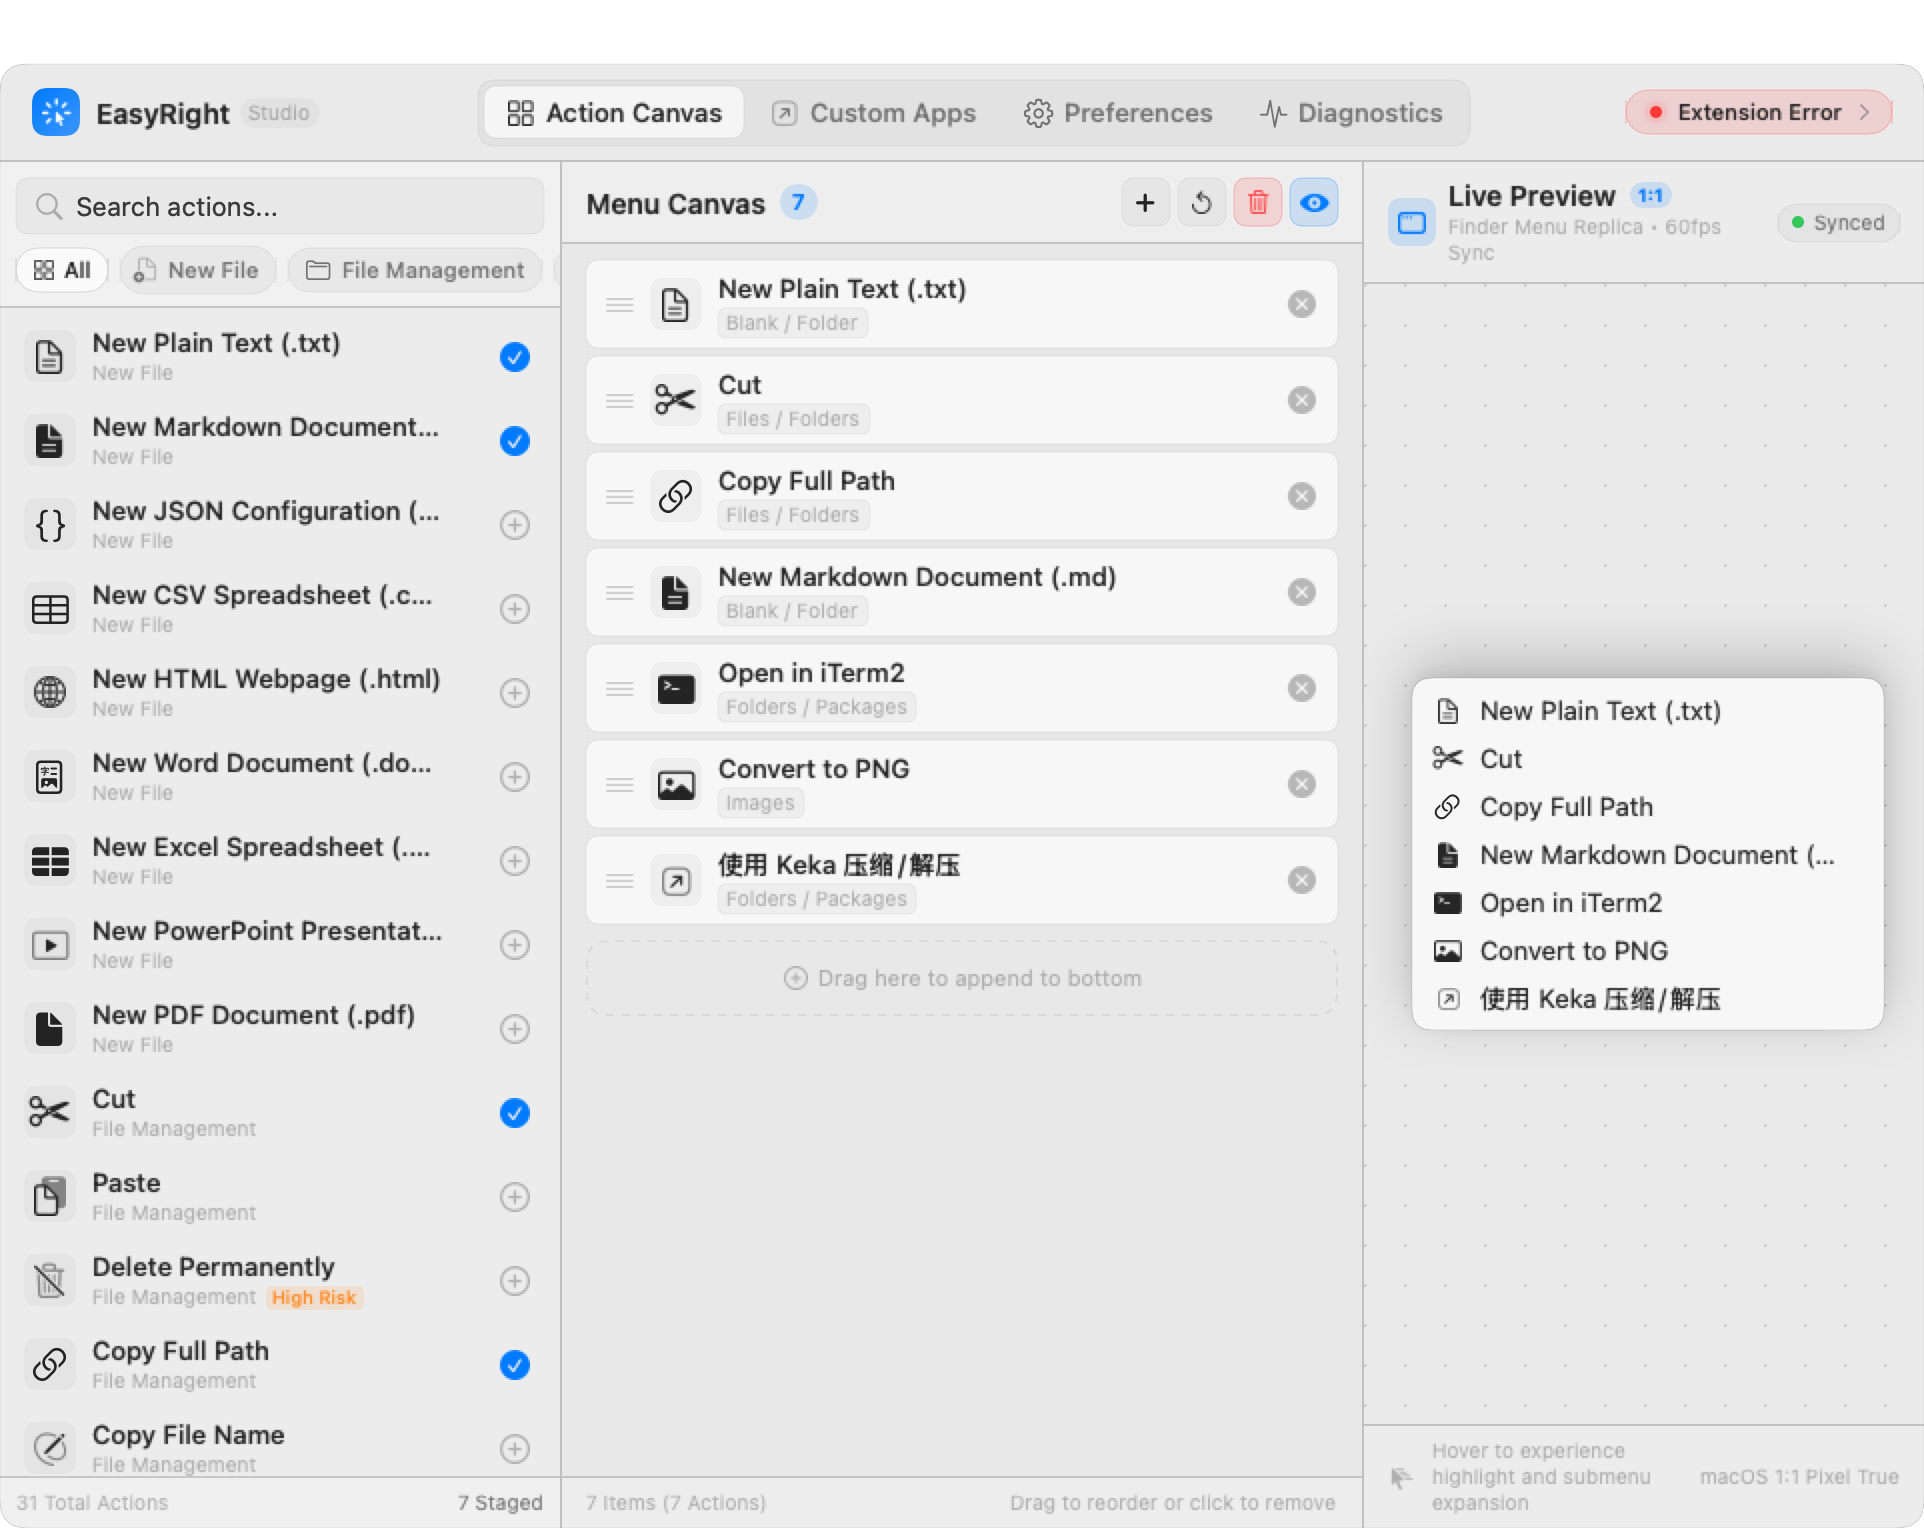
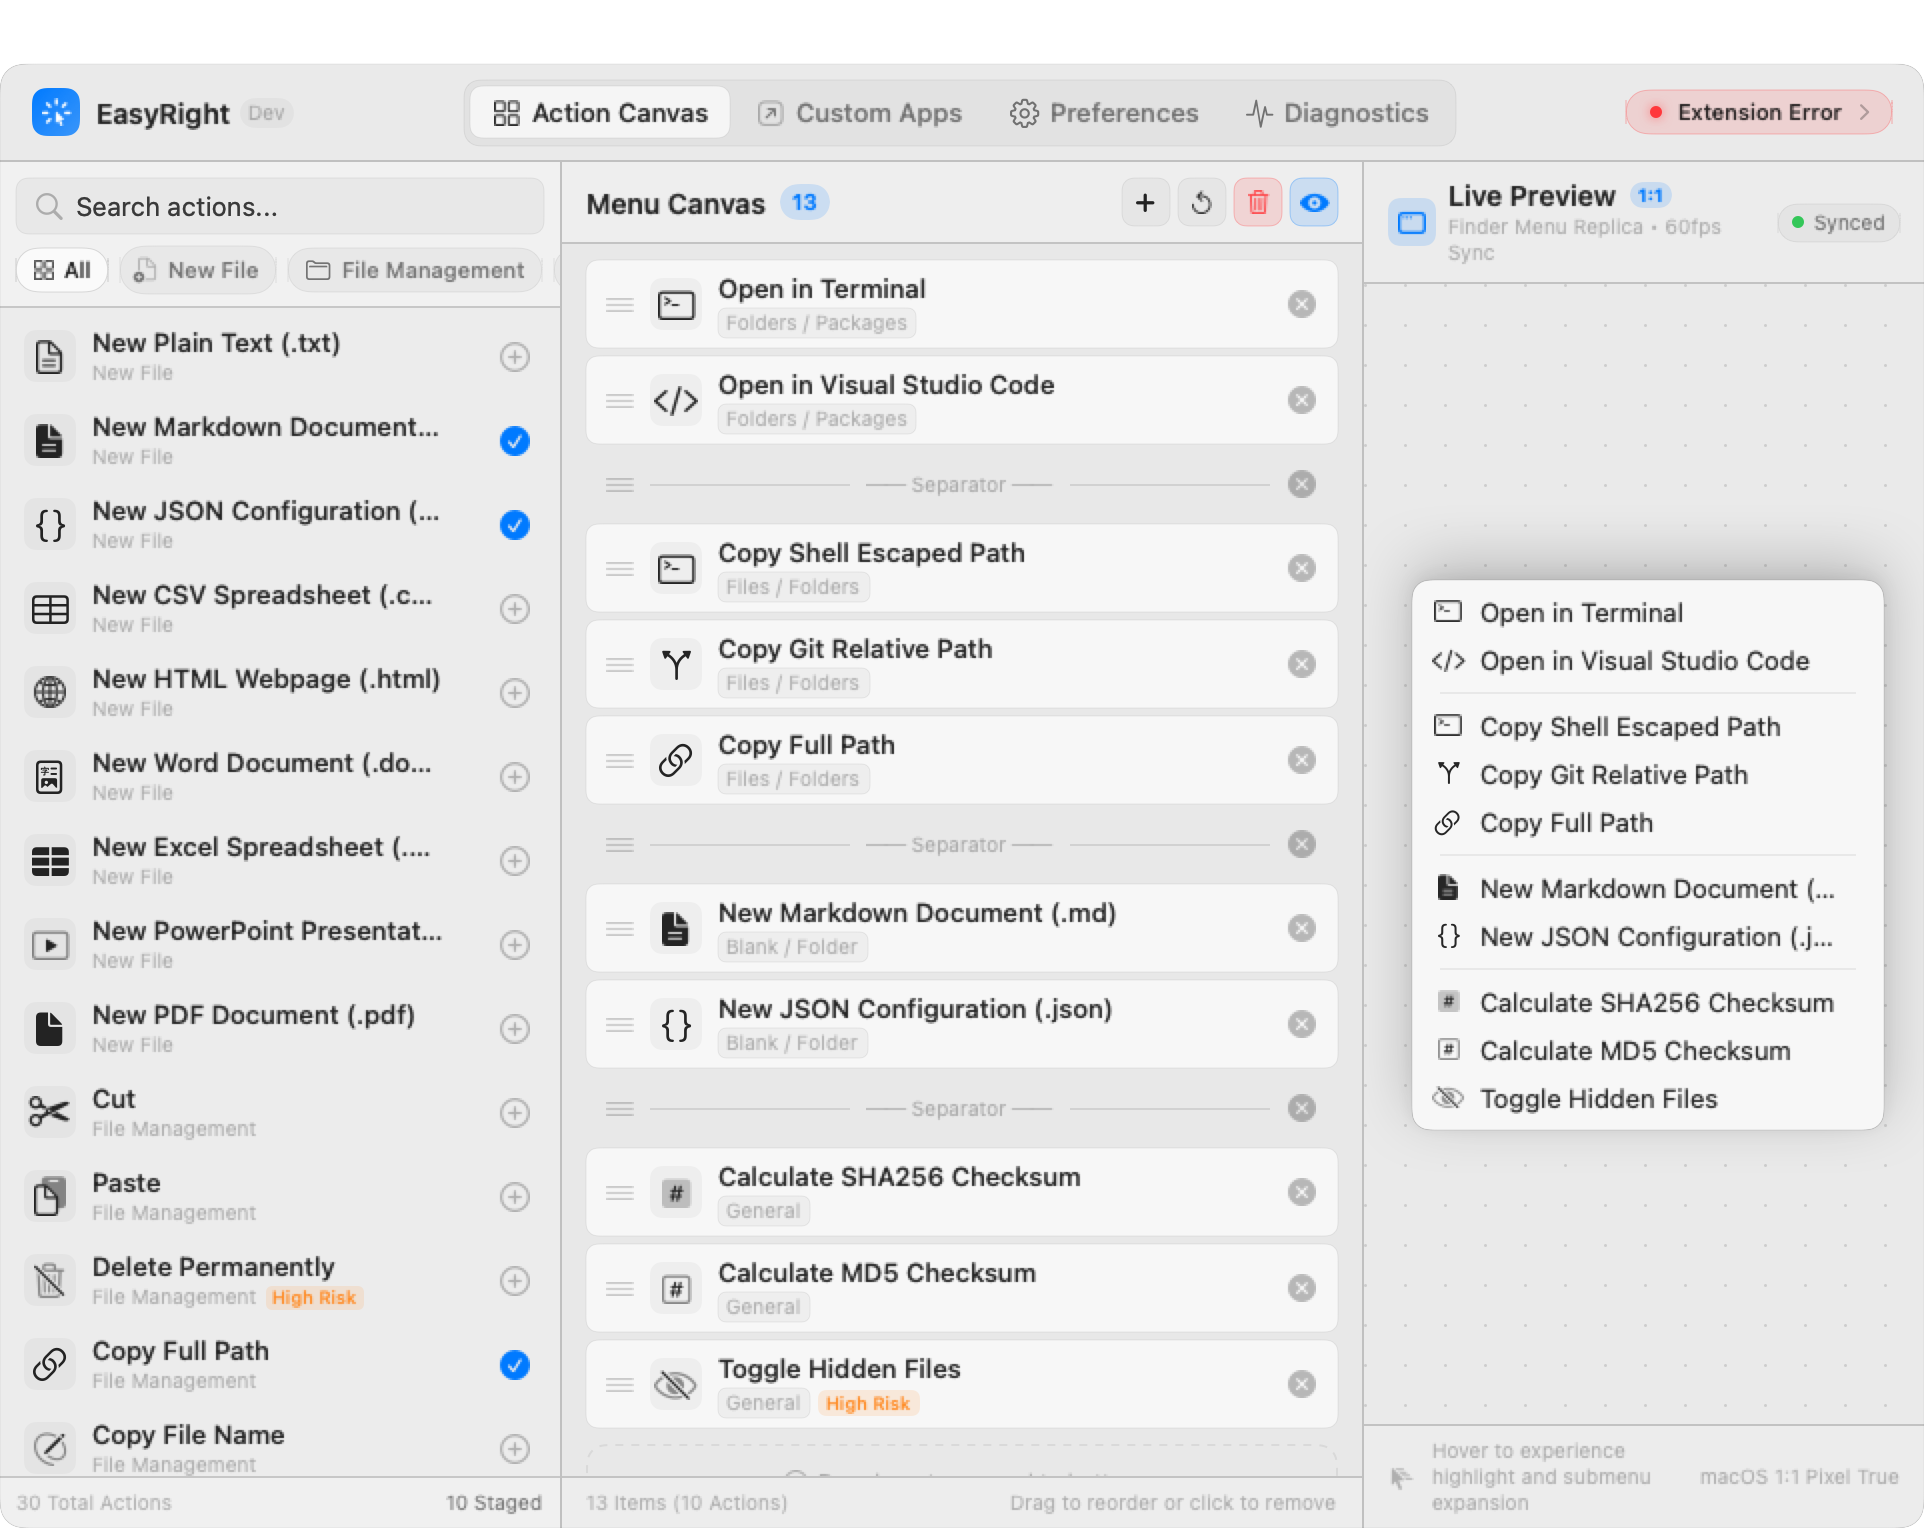
feat(studio): 将主标题尾缀动态关联预设状态 (Mini / Dev / Max | User)
- 标题栏尾缀胶囊由固定 Studio 改造为响应式 activePresetBadgeName
- 极简日常对应 Mini，开发者特供对应 Dev，全能全景对应 Max
- 画布手动增删动作或自定义排序时自动精准标记为 User
- 同步更新单元测试与英文界面最新截图

diff --git a/Tests/LanguageAndPresetTests.swift b/Tests/LanguageAndPresetTests.swift
@@ -64,21 +64,28 @@ struct LanguageAndPresetTests {
         // Apply Minimalist preset
         coordinator.applyPreset(.minimalist)
         assert(coordinator.canvasItems.count == StarterPreset.minimalist.canvasItems().count, "Canvas count should match Minimalist preset count")
+        assert(coordinator.activePresetBadgeName == "Mini", "Minimalist preset badge must be Mini")
         let loadedItemsMin = storage.getCanvasItems()
         assert(loadedItemsMin?.count == coordinator.canvasItems.count, "Storage items must match applied Minimalist preset")
 
         // Apply Developer preset
         coordinator.applyPreset(.developer)
         assert(coordinator.canvasItems.count == StarterPreset.developer.canvasItems().count, "Canvas count should match Developer preset count")
+        assert(coordinator.activePresetBadgeName == "Dev", "Developer preset badge must be Dev")
         let loadedItemsDev = storage.getCanvasItems()
         assert(loadedItemsDev?.count == coordinator.canvasItems.count, "Storage items must match applied Developer preset")
 
         // Apply Power User preset
         coordinator.applyPreset(.powerUser)
         assert(coordinator.canvasItems.count == StarterPreset.powerUser.canvasItems().count, "Canvas count should match Power User preset count")
+        assert(coordinator.activePresetBadgeName == "Max", "Power User preset badge must be Max")
         let loadedItemsPower = storage.getCanvasItems()
         assert(loadedItemsPower?.count == coordinator.canvasItems.count, "Storage items must match applied Power User preset")
-        print("     ✓ Coordinator applyPreset: PASSED")
+
+        // Modify canvas manually -> should become User
+        coordinator.addSeparator()
+        assert(coordinator.activePresetBadgeName == "User", "Modified canvas badge must be User")
+        print("     ✓ Coordinator applyPreset & badge (Mini/Dev/Max/User): PASSED")
 
         // MARK: 3. PresetSelectionSheet Instantiation
         print("  -> Testing PresetSelectionSheet UI instantiation...")

diff --git a/Sources/EasyRight/Views/AppMenuStateCoordinator.swift b/Sources/EasyRight/Views/AppMenuStateCoordinator.swift
@@ -285,6 +285,19 @@ public final class AppMenuStateCoordinator: ObservableObject {
         SystemReloader.postConfigChanged()
     }
 
+    /// 当前画布对应的预设微徽标名称 (Mini / Dev / Max / User)
+    public var activePresetBadgeName: String {
+        if canvasItems.matchesPresetStructure(StarterPreset.minimalist.canvasItems()) {
+            return StarterPreset.minimalist.badgeName
+        } else if canvasItems.matchesPresetStructure(StarterPreset.developer.canvasItems()) {
+            return StarterPreset.developer.badgeName
+        } else if canvasItems.matchesPresetStructure(StarterPreset.powerUser.canvasItems()) {
+            return StarterPreset.powerUser.badgeName
+        } else {
+            return "User"
+        }
+    }
+
     /// 清空画布中的所有菜单项
     public func clearAll() {
         canvasItems.removeAll()
@@ -437,5 +450,24 @@ public final class AppMenuStateCoordinator: ObservableObject {
         _ = storage.removeValue(forKey: SharedStorageManager.Keys.customAppActions)
         allActions = DefaultActionRegistry.allActions
         scheduleSave(immediate: true)
+    }
+}
+
+extension Array where Element == MenuCanvasItem {
+    public func matchesPresetStructure(_ presetItems: [MenuCanvasItem]) -> Bool {
+        guard count == presetItems.count else { return false }
+        for (a, b) in zip(self, presetItems) {
+            switch (a, b) {
+            case (.action(let id1), .action(let id2)):
+                if id1 != id2 { return false }
+            case (.separator, .separator):
+                continue
+            case (.submenu(_, let t1, let ids1), .submenu(_, let t2, let ids2)):
+                if t1 != t2 || ids1 != ids2 { return false }
+            default:
+                return false
+            }
+        }
+        return true
     }
 }

diff --git a/Sources/EasyRight/Views/MainWindowView.swift b/Sources/EasyRight/Views/MainWindowView.swift
@@ -201,7 +201,7 @@ public struct MainWindowView: View {
                             .font(DesignTokens.Typography.windowTitle)
                             .foregroundStyle(DesignTokens.Colors.primaryText)
 
-                        Text("Studio")
+                        Text(coordinator.activePresetBadgeName)
                             .font(DesignTokens.Typography.caption2)
                             .foregroundStyle(DesignTokens.Colors.tertiaryText)
                             .padding(.horizontal, 4)

diff --git a/Sources/EasyRight/Views/OnboardingView.swift b/Sources/EasyRight/Views/OnboardingView.swift
@@ -20,6 +20,15 @@ public enum StarterPreset: String, CaseIterable, Identifiable, Sendable {
 
     public var id: String { rawValue }
 
+    /// 预设徽标单单词名称 (Mini / Dev / Max)
+    public var badgeName: String {
+        switch self {
+        case .minimalist: return "Mini"
+        case .developer: return "Dev"
+        case .powerUser: return "Max"
+        }
+    }
+
     public var title: String {
         switch self {
         case .minimalist: return L10n.tr("极简日常", "Minimalist")
